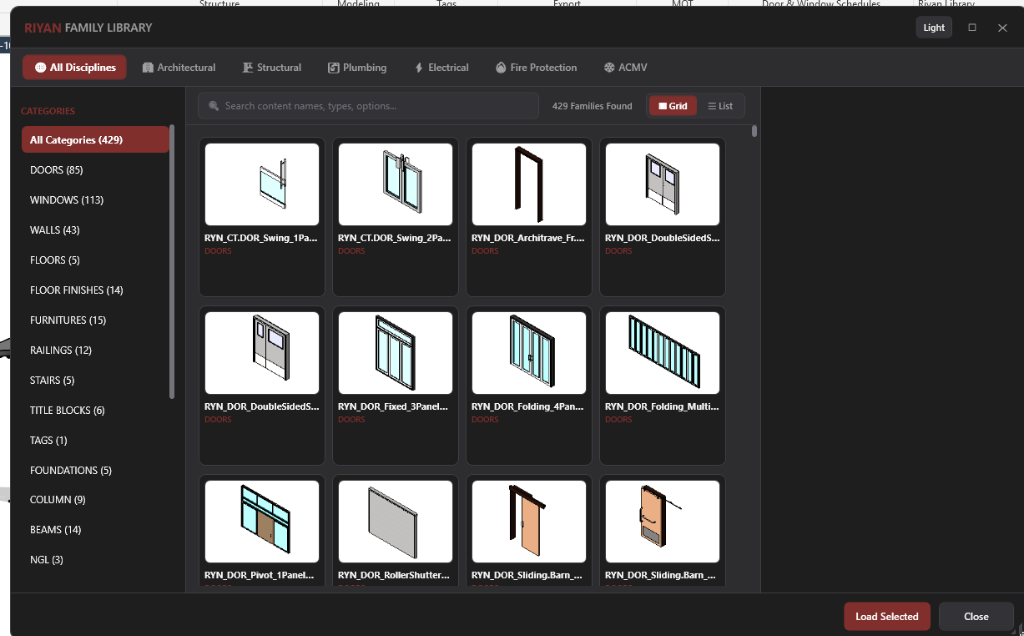
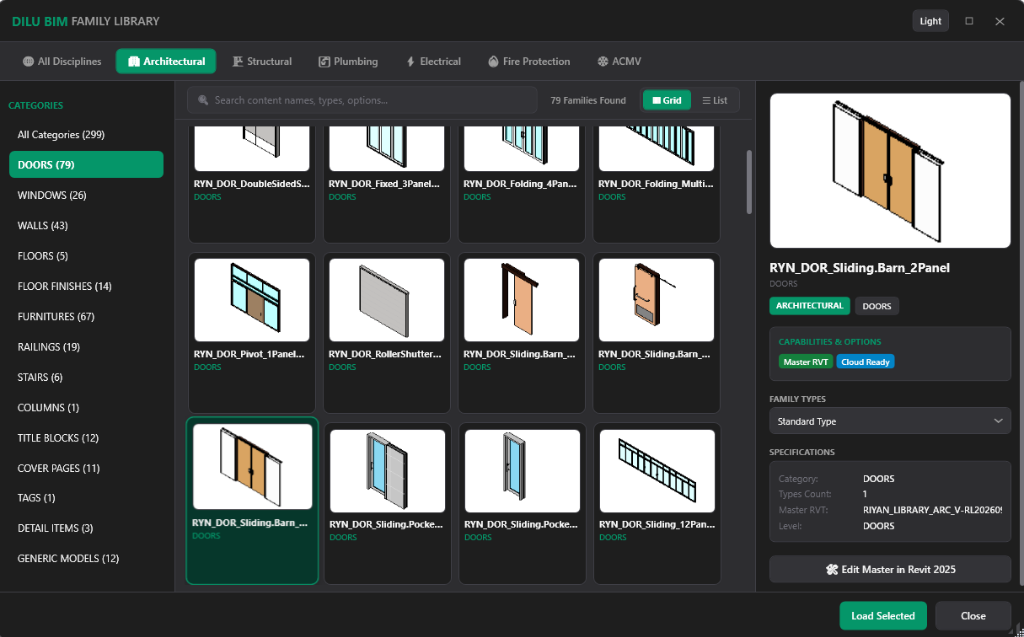
Update Family Library screenshot to clean DILU BIM UI & bump cache buster (v5.0)

diff --git a/js/projects-data.js b/js/projects-data.js
@@ -203,7 +203,7 @@ const portfolioData = {
       title: "BIM Family Browser & Parametric D&W Suite",
       badge: "Asset Engine & D&W Suite",
       subtitle: "Custom WPF Visual Catalog Engine & Advanced Mathematical Parametric D&W Families",
-      image: "assets/images/family_library_ui.png",
+      image: "assets/images/family_library_ui.png?v=5.0",
       description: "A dual-power BIM asset solution: a custom high-performance WPF visual browser for Revit paired with an advanced suite of custom-authored parametric Door and Window families, standardized wall assemblies, and company title blocks.",
       problem: "Standard Revit door and window families were rigid and difficult to configure for diverse architectural openings. Drafters spent hours hunting for components across drives and manually hacking opening families to handle variable panel counts, custom sliding tracks, and louver/glass infill variations.",
       solution: "Engineered advanced parametric Revit families from scratch: custom multi-panel folding doors with complex mathematical formulas allowing independent panel count control per side; 2-panel sliding barn doors with exposed track hardware; and dynamic windows featuring configurable panel numbers, swing directions, and interchangeable panel types (Louvers, Glass, Open). In addition, authored standardized wall types and company title block sheets. To deliver these assets seamlessly, engineered an in-Revit visual WPF catalog with multi-discipline tabs (ARC, STR, PLU, ELE, FIRE, ACMV), real-time search, studio-white 3D previews, and 1-click loading directly into active projects.",

diff --git a/index.html b/index.html
@@ -12,7 +12,7 @@
   <link href="https://fonts.googleapis.com/css2?family=Inter:wght@400;500;600;700;800&family=JetBrains+Mono:wght@400;500;600&display=swap" rel="stylesheet">
   <link rel="stylesheet" href="https://cdnjs.cloudflare.com/ajax/libs/font-awesome/6.4.0/css/all.min.css">
   
-  <link rel="stylesheet" href="css/styles.css?v=4.9">
+  <link rel="stylesheet" href="css/styles.css?v=5.0">
 </head>
 <body>
 
@@ -469,7 +469,7 @@
     </div>
   </div>
 
-  <script src="js/projects-data.js?v=4.9"></script>
-  <script src="js/main.js?v=4.9"></script>
+  <script src="js/projects-data.js?v=5.0"></script>
+  <script src="js/main.js?v=5.0"></script>
 </body>
 </html>
